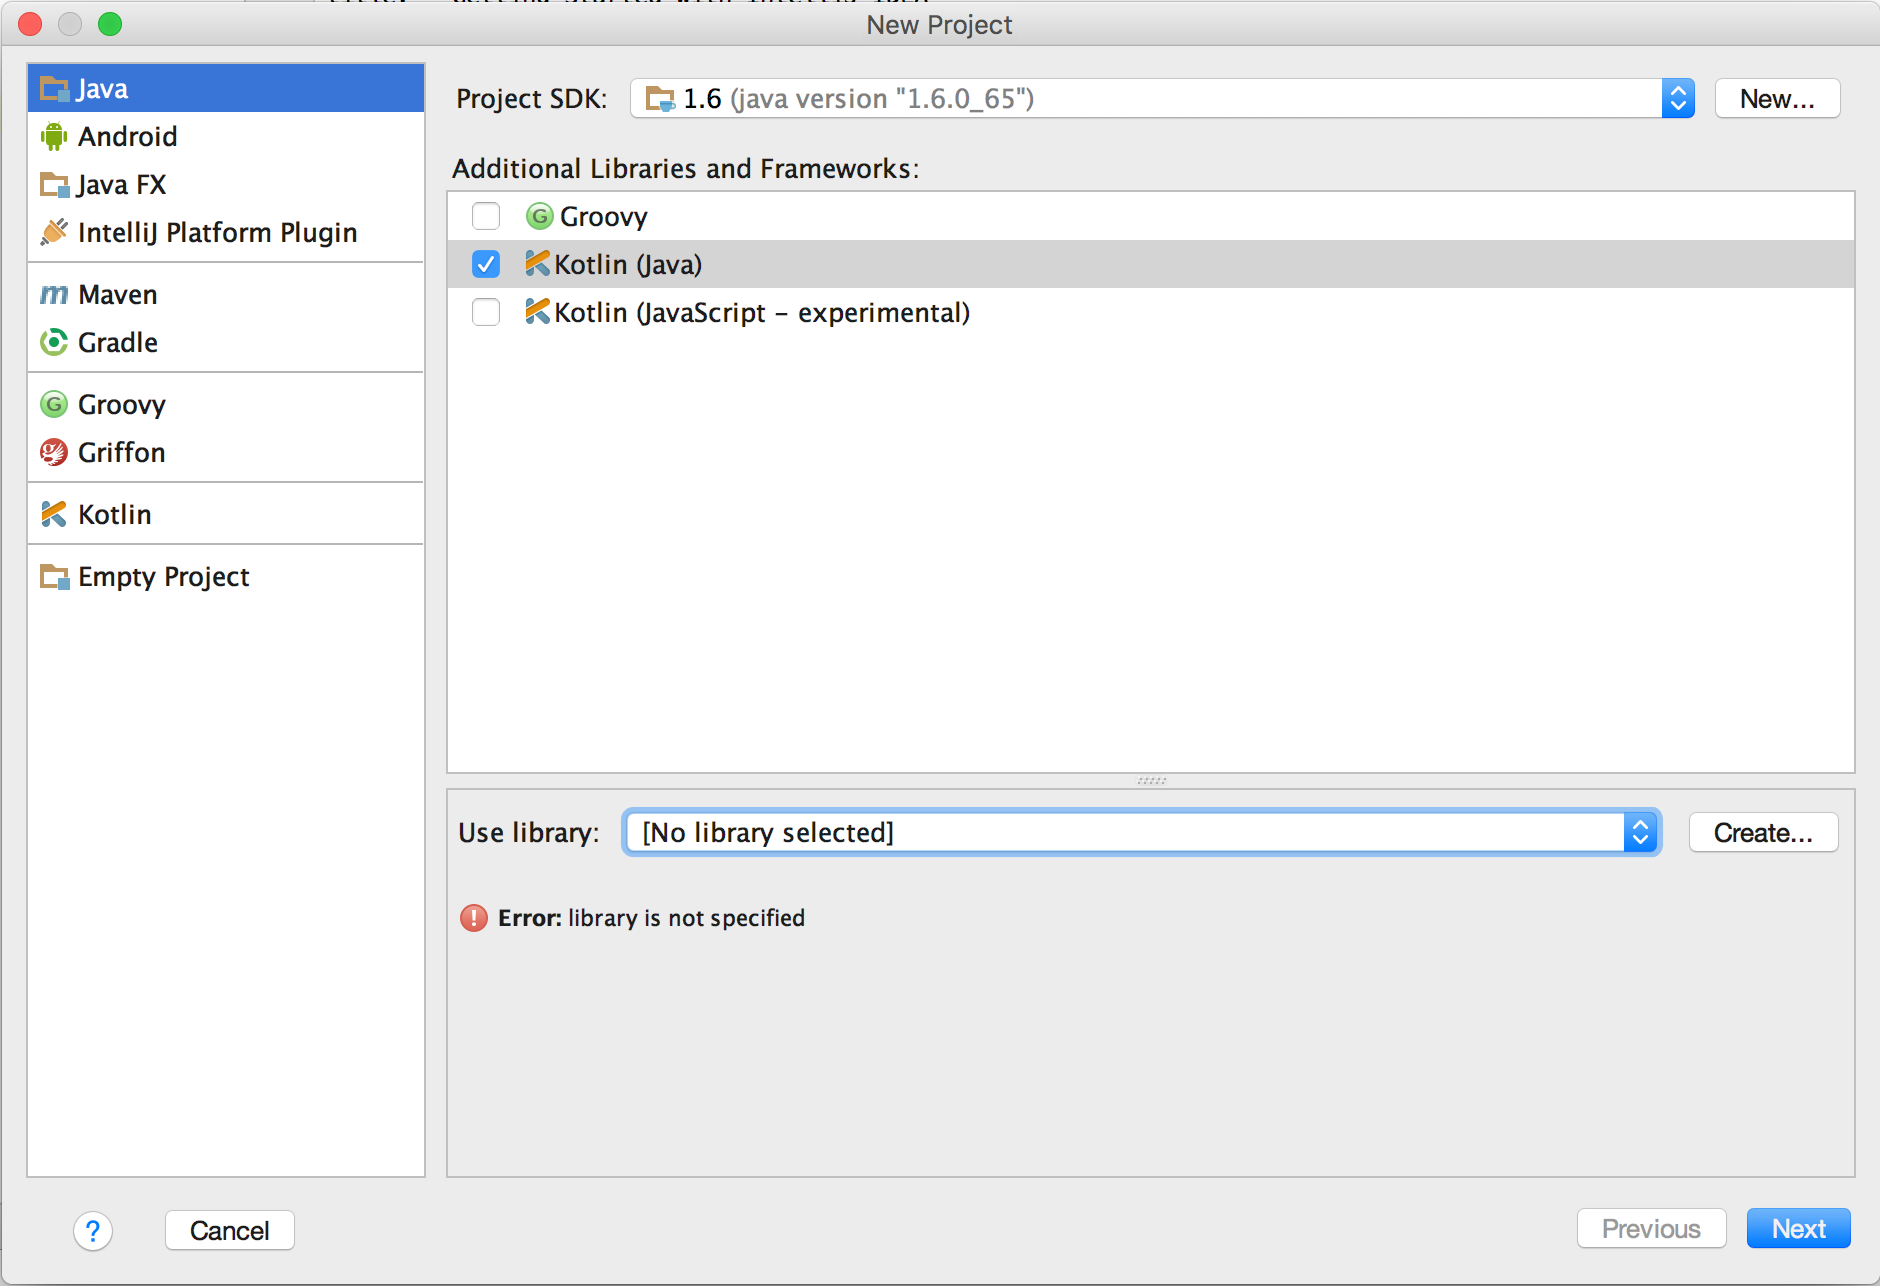
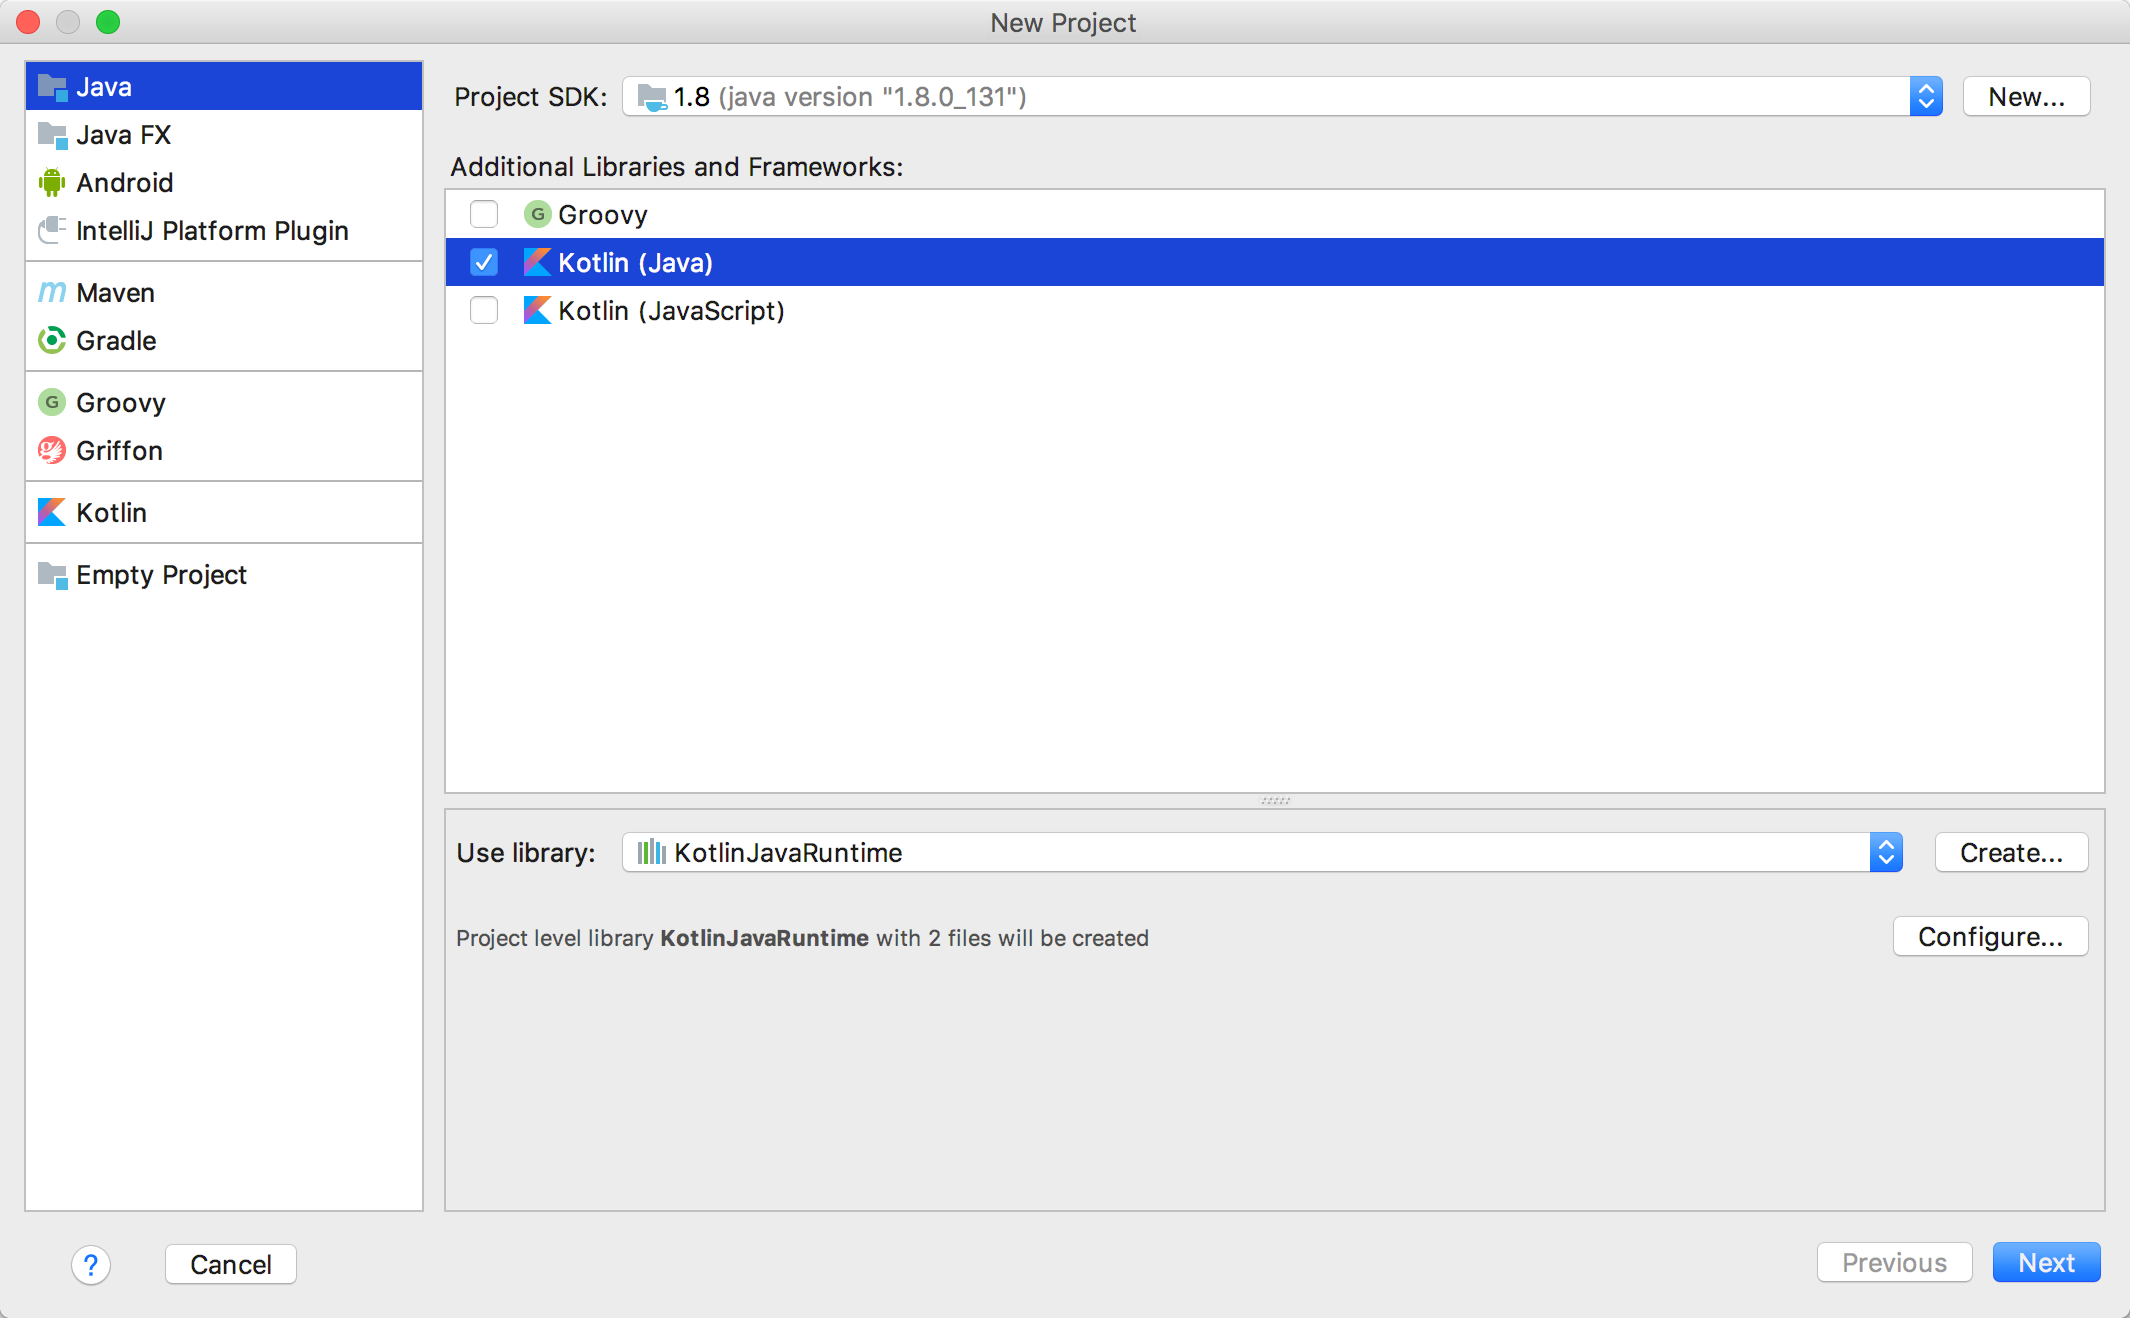
Update Getting Started with IntelliJ IDEA tutorial

Changed region(s): [[0.0, 0.0, 1.0, 0.9331], [0.0, 0.902, 1.0, 1.0], [0.0309, 0.9331, 0.0617, 0.9642]]

diff --git a/pages/docs/tutorials/getting-started.md b/pages/docs/tutorials/getting-started.md
@@ -4,33 +4,23 @@ layout: tutorial
 title:  "Getting Started with IntelliJ IDEA"
 description: "This tutorial walks you through creating a simple Hello World application using IntelliJ IDEA."
 authors: Hadi Hariri, Roman Belov
-date: 2015-11-02
+date: 2017-05-04
 showAuthorInfo: false
 ---
 ### Setting up the environment
-In this tutorial we're going to use IntelliJ IDEA. You can download the free [Open Source Community Edition][intellijdownload] from [JetBrains][jetbrains].
+In this tutorial we're going to use IntelliJ IDEA.
 For instructions on how to compile and execute Kotlin applications using the command line compiler, see [Working with the Command Line Compiler][getting_started_command_line].
 
 If you are new to the JVM and Java, check out the [JVM Minimal Survival Guide](http://hadihariri.com/2013/12/29/jvm-minimal-survival-guide-for-the-dotnet-developer/). If you are new to IntelliJ IDEA, check out the [The IntelliJ IDEA Minimal Survival Guide](http://hadihariri.com/2014/01/06/intellij-idea-minimal-survival-guide/).
 
-1. **Kotlin is shipped with IntelliJ IDEA 15** ([download][intellijdownload]).
-
-   To use Kotlin with the [previous versions][oldintellijdownload] or Android Studio, we need to manually install the latest Kotlin Plugin.
-   Under **Preferences (OSX) or Settings (Windows/Linux) > Plugins > Browse Repositories** type **Kotlin** to find the Kotlin plugin. Click **Install** and follow the instructions.
-
-   ![Kotlin Plugin]({{ url_for('tutorial_img', filename='getting-started/install_kotlin_plugin.png') }})
-
-
+1. **Install a recent version of IntelliJ IDEA**. Kotlin is bundled with IntelliJ IDEA
+   starting from version 15. You can download the free [Community Edition][intellijdownload] from [JetBrains][jetbrains].
 
 2. Create a New Project. We select Java Module and select the SDK. Kotlin works with JDK 1.6+. Also, select the *Kotlin (Java)* checkbox.
 
    ![Kotlin New Project]({{ url_for('tutorial_img', filename='getting-started/new_project_step1.png') }})
 
-3. Then we click the *Create* button to specify the Kotlin runtime. We can either copy it to our project folder or use the bundle from the plugin.
-
-   ![Kotlin Select Technologies]({{ url_for('tutorial_img', filename='getting-started/kotlin_java.png') }})
-
-4. Give our project a name on the next step.
+3. Give our project a name on the next step.
 
    ![Kotlin Project Name]({{ url_for('tutorial_img', filename='getting-started/project_name.png') }})
 
@@ -61,6 +51,5 @@ If you are new to the JVM and Java, check out the [JVM Minimal Survival Guide](h
 Congratulations! We now have our first application running.
 
 [intellijdownload]: http://www.jetbrains.com/idea/download/index.html
-[oldintellijdownload]: https://confluence.jetbrains.com/display/IntelliJIDEA/Previous+IntelliJ+IDEA+Releases
 [jetbrains]: http://www.jetbrains.com
 [getting_started_command_line]: command-line.html
